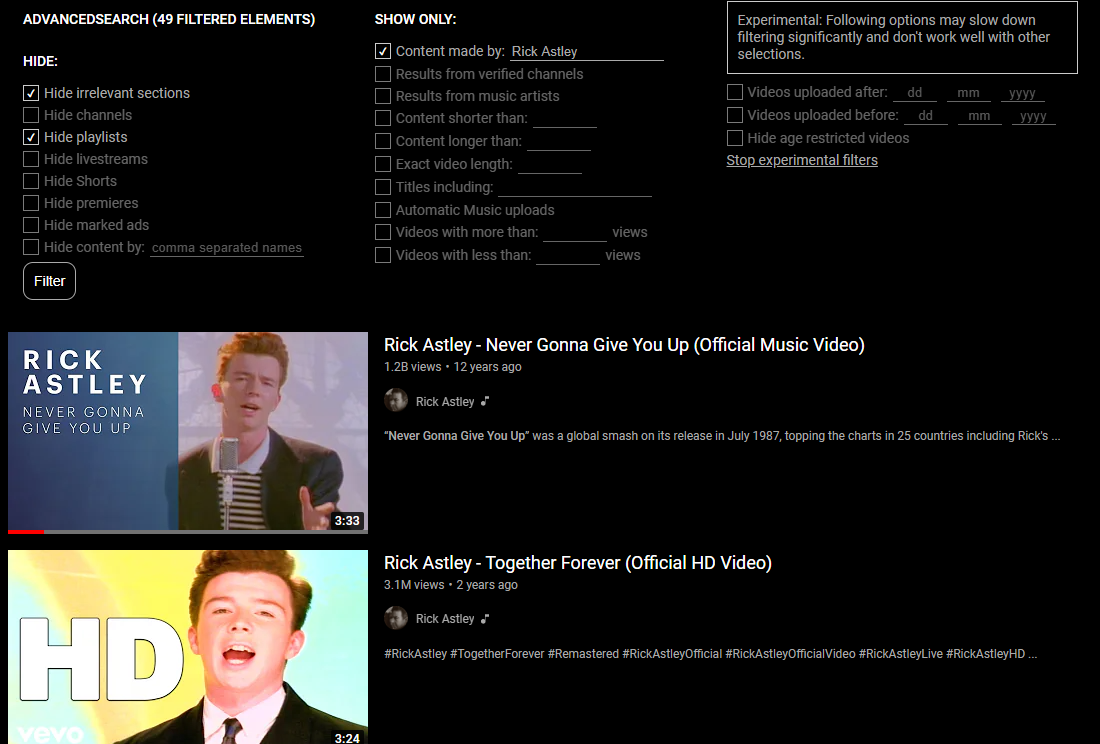
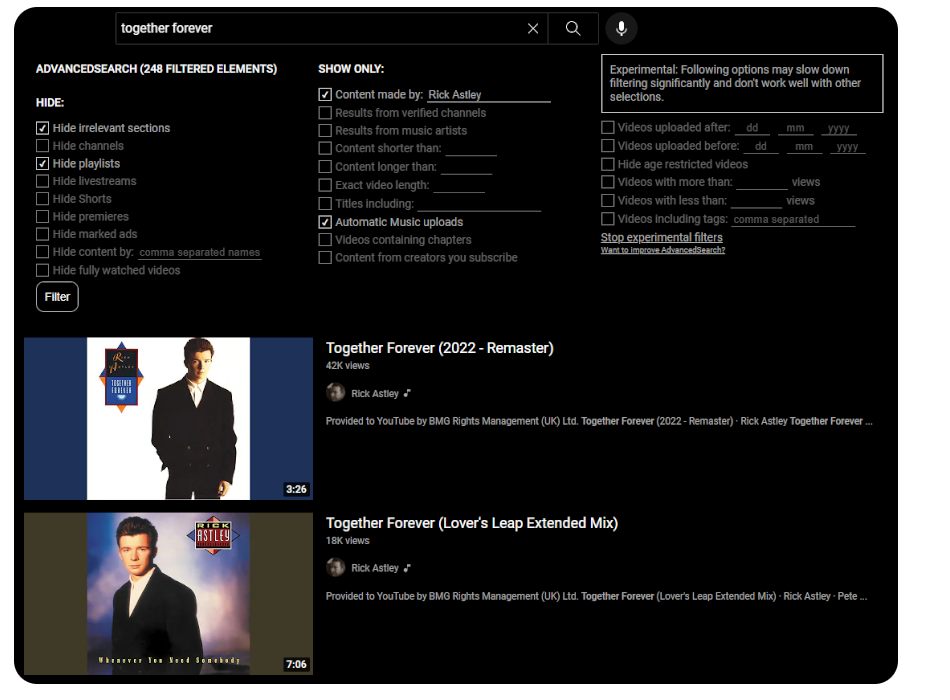
1.3 - new filters, minor fix, updated screenshots

diff --git a/filters.js b/filters.js
@@ -17,6 +17,7 @@ const lang = {
     "premiere": "premieres",
     "ad": "marked ads",
     "shorts": "Shorts",
+    "watched_content": "fully watched videos",
     "author_remove": "content by: ",
     "author": "Content made by: ",
     "author_placeholder": "comma separated names",
@@ -27,6 +28,11 @@ const lang = {
     "content_longer_than": "Content longer than: ",
     "title_includes": "Titles including: ",
     "topic_uploads": "Automatic Music uploads",
+    "chapters": "Videos containing chapters",
+    "subscribed-creators": "Content from creators you subscribe",
+
+
+    "form_invite": "Want to improve AdvancedSearch?",
 
 
     "view_count_more": "Videos with more than: ",
@@ -38,12 +44,17 @@ const lang = {
     "uploaded_before": "Videos uploaded before: ",
     "uploaded_after": "Videos uploaded after: ",
     "age_restricted": "age restricted videos",
-    "matching_keywords": "Videos including 1 or more tags: ",
+    "matching_keywords": "Videos including tags: ",
+    "keywords_placeholder": "comma separated",
 
 
 
     "stats_filter_1": "filtered",
-    "stats_filter_2": "elements"
+    "stats_filter_2": "elements",
+
+
+
+    "logged_in": "(only logged in users)"
 
 }
 
@@ -94,6 +105,10 @@ function filters_add() {
             <p>${lang.hide_default} ${lang.author_remove}</p>
             <input type="text" autocomplete="off" spellcheck="false" class="as_input input_creatorname_2" placeholder="${lang.author_placeholder}"></input>
         </div>
+        <div class="as_filter">
+            <span class="as_checkbox" data-filtername="watched-videos">✔</span>
+            <p>${lang.hide_default} ${lang.watched_content}</p>
+        </div>
 
         <button class="as_button button_filter">Filter</button>
     </div>
@@ -137,6 +152,14 @@ function filters_add() {
             <span class="as_checkbox" data-filtername="topic-uploads">✔</span>
             <p>${lang.topic_uploads}</p>
         </div>
+        <div class="as_filter">
+            <span class="as_checkbox" data-filtername="chapters">✔</span>
+            <p>${lang.chapters}</p>
+        </div>
+        <div class="as_filter">
+            <span class="as_checkbox" data-filtername="subscribed-creators">✔</span>
+            <p>${lang["subscribed-creators"]}</p>
+        </div>
     </div>
     <div class="as_group">
         <p class="as_warning">${lang.slow_warning}</p>
@@ -170,7 +193,14 @@ function filters_add() {
             <input type="text" autocomplete="off" spellcheck="false" class="as_input number input_views_less"></input>
             <p>${lang.views}</p>
         </div>
+        <div class="as_filter">
+            <span class="as_checkbox" data-filtername="matching-keywords">✔</span>
+            <p>${lang.matching_keywords}</p>
+            <input type="text" autocomplete="off" spellcheck="false" class="as_input input_keywords" placeholder="${lang.keywords_placeholder}"></input>
+        </div>
         <a class="as_link link_stop">Stop experimental filters</a>
+        <br>
+        <a href="https://docs.google.com/forms/d/1iukscBQdxam-pUQ1C7WYmWfL2SMCPFKe85GuVlCs1YA/" class="as_link" target="_blank" style="font-size: 10px;">${lang.form_invite}</a>
     </div>
     `
     custom_settings.classList.add("as_list")
@@ -217,7 +247,6 @@ function search_results_filter(source) {
         result.classList.remove("hide_source_requests")
     })
 
-
     document.querySelectorAll(".as_checkbox.checked").forEach(check => {
 
         switch(check.getAttribute("data-filtername")) {
@@ -252,7 +281,7 @@ function search_results_filter(source) {
             Hide marked ads
             */
             case "hide-ad": {
-                $("ytd-video-renderer, ytd-promoted-sparkles-web-renderer").forEach(result => {
+                $("ytd-video-renderer, ytd-promoted-sparkles-web-renderer, ytd-promoted-video-renderer").forEach(result => {
                     if(result.querySelector(".badge-style-type-ad")) {
                         result.classList.add("as_hide")
                     }
@@ -418,6 +447,52 @@ function search_results_filter(source) {
                 })
                 break;
             }
+            /*
+            Videos with chapters
+            */
+            case "chapters": {
+                $("ytd-video-renderer").forEach(result => {
+                    if(!result.querySelector("ytd-expandable-metadata-renderer")) {
+                        result.classList.add("as_hide")
+                    }
+                })
+                break;
+            }
+            /*
+            From creators you subscribe
+            */
+            case "subscribed-creators": {
+                // til you can actually do functions like that
+                function hide_sub() {
+                    $("ytd-video-renderer").forEach(result => {
+                        if(!subscribed_names.includes(result.querySelector(".ytd-channel-name a").innerText)) {
+                            result.classList.add("as_hide")
+                        }
+                    })
+                }
+
+
+                if(source !== "mutation") {
+                    get_subscribed(() => {
+                        hide_sub();
+                    });
+                } else {
+                    hide_sub();
+                }
+                break;
+            }
+            /*
+            Hide watched videos
+            */
+            case "watched-videos": {
+                $("ytd-video-renderer").forEach(result => {
+                    if(result.querySelector(`ytd-thumbnail-overlay-resume-playback-renderer #progress[style="width: 100%;"]`)) {
+                        result.classList.add("as_hide")
+                    }
+                })
+                break;
+            }
+
         }
     })
 

diff --git a/experimental_filters/main.js b/experimental_filters/main.js
@@ -8,7 +8,7 @@ gives us more flexibility over experimental filters which aren't synchronous
 
 let experimental = {
     "checks": [],
-    "video_queue": []
+    "video_queue": [],
 }
 
 function experimental_start(source) {
@@ -16,7 +16,7 @@ function experimental_start(source) {
     experimental.checks = []
 
     // push appropriate checks
-    document.querySelectorAll(`[data-filtername="upload-after"].checked, [data-filtername="upload-before"].checked, [data-filtername="hide-age-restricted"].checked, [data-filtername="views-more"].checked, [data-filtername="views-less"].checked`).forEach(check => {
+    document.querySelectorAll(`[data-filtername="upload-after"].checked, [data-filtername="upload-before"].checked, [data-filtername="hide-age-restricted"].checked, [data-filtername="views-more"].checked, [data-filtername="views-less"].checked, [data-filtername="matching-keywords"].checked`).forEach(check => {
         experimental.checks.push(check.getAttribute("data-filtername"))
     })
 
@@ -27,6 +27,16 @@ function experimental_start(source) {
         }
         experimental.video_queue.push(result)
     })
+
+    // if liked-videos is checked, get that outside of the interval
+    if(experimental.checks.includes("liked-videos")) {
+        get_liked_videos((likedList) => {
+            experimental.liked_videos_checked = true;
+            likedList.forEach(video => {
+                experimental.liked_videos.push(video)
+            })
+        })
+    }
 
     // check videos, use "passing" for each video - let all the checks go through and then decide
     let video_checks = setInterval(() => {
@@ -61,6 +71,11 @@ function experimental_start(source) {
                     case "views-more":
                     case "views-less": {
                         passing = view_count_compare(video, check);
+                        break;
+                    }
+                    // Keywords
+                    case "matching-keywords": {
+                        passing = includes_keywords(video, $(".as_input.input_keywords").value);
                         break;
                     }
                 }

diff --git a/utilities.js b/utilities.js
@@ -6,6 +6,35 @@ function $(element) {
     }
 }
 
+/*
+=======
+get creators user subscribes for subscribed-creators filter
+=======
+*/
+let subscribed_names = []
+function get_subscribed(c) {
+    waitForElement(`ytd-guide-section-renderer:nth-child(2)`, () => {
+        let list = $(`ytd-guide-section-renderer`)[1]
+    
+        // expand if needed
+        if(list.querySelector(`#expander-item`)) {
+            list.querySelector(`#expander-item`).click();
+        }
+    
+        setTimeout(function() {
+            list.querySelectorAll(`ytd-guide-entry-renderer`).forEach(entry => {
+                if(!entry.querySelector("svg")) {
+                    subscribed_names.push(entry.querySelector("#endpoint").innerText)
+                }
+            })
+            c();
+            setTimeout(function() {
+                // collapse :)
+                list.querySelector(`#collapser-item`).click();
+            }, 250)
+        }, 500)
+    })
+}
 
 /*
 =======

diff --git a/experimental_filters/matching_keywords.js b/experimental_filters/matching_keywords.js
@@ -1,0 +1,34 @@
+/*
+=======
+Separate functions for matching-keywords
+=======
+*/
+
+function includes_keywords(videoData, keywords) {
+    let pass = false;
+    let tags = []
+
+    // trim off start spaces
+    keywords.split(",").forEach(keyword => {
+        tags.push(keyword.toLowerCase().trimStart())
+    })
+
+    // lowercase all tags
+    try {
+        videoData.tags.forEach(tag => {
+            videoData.tags[videoData.tags.indexOf(tag)] = tag.toLowerCase()
+        })
+    }
+    catch(error) {}
+
+    // if we have at least 1 matching, set pass to true
+    tags.forEach(keyword => {
+        try {
+            if(videoData.tags.includes(keyword)) {
+                pass = true;
+            }
+        }
+        catch(error) {}
+    })
+    return pass;
+}
